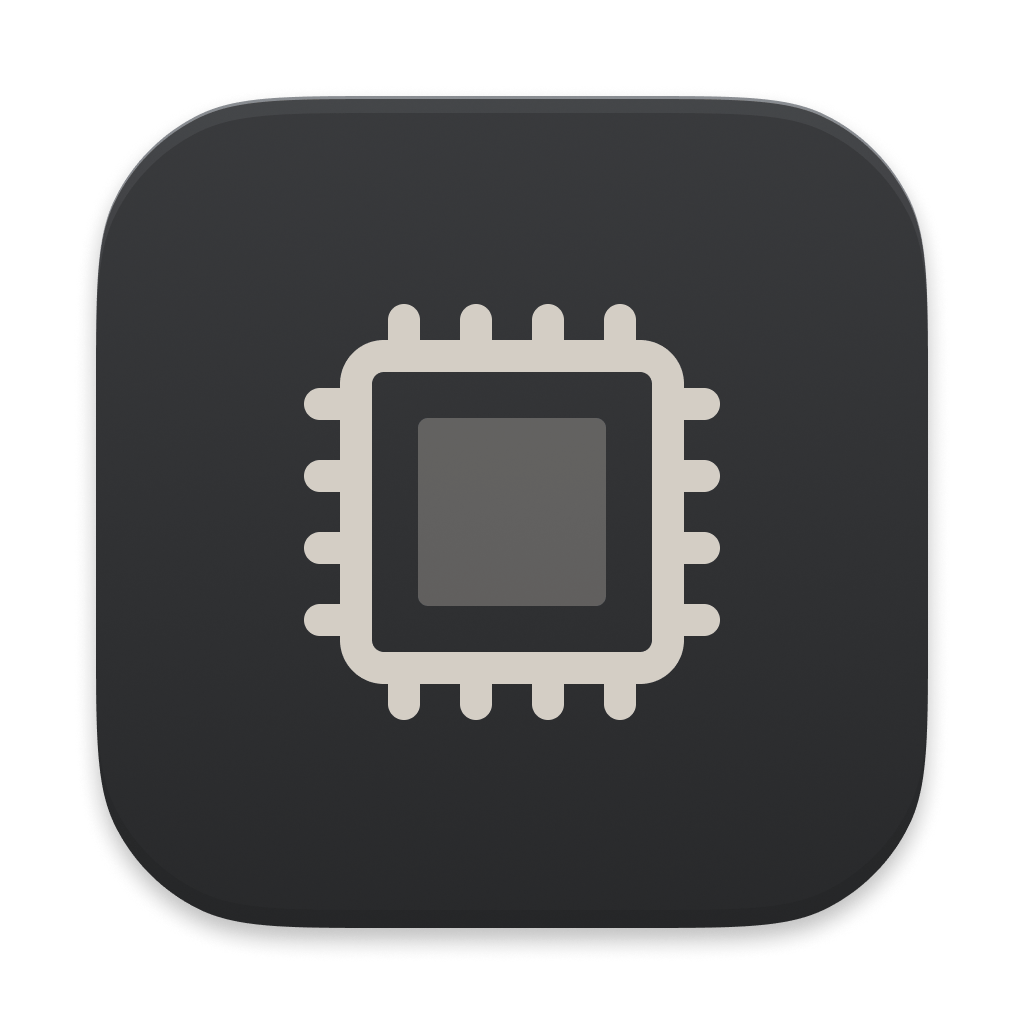
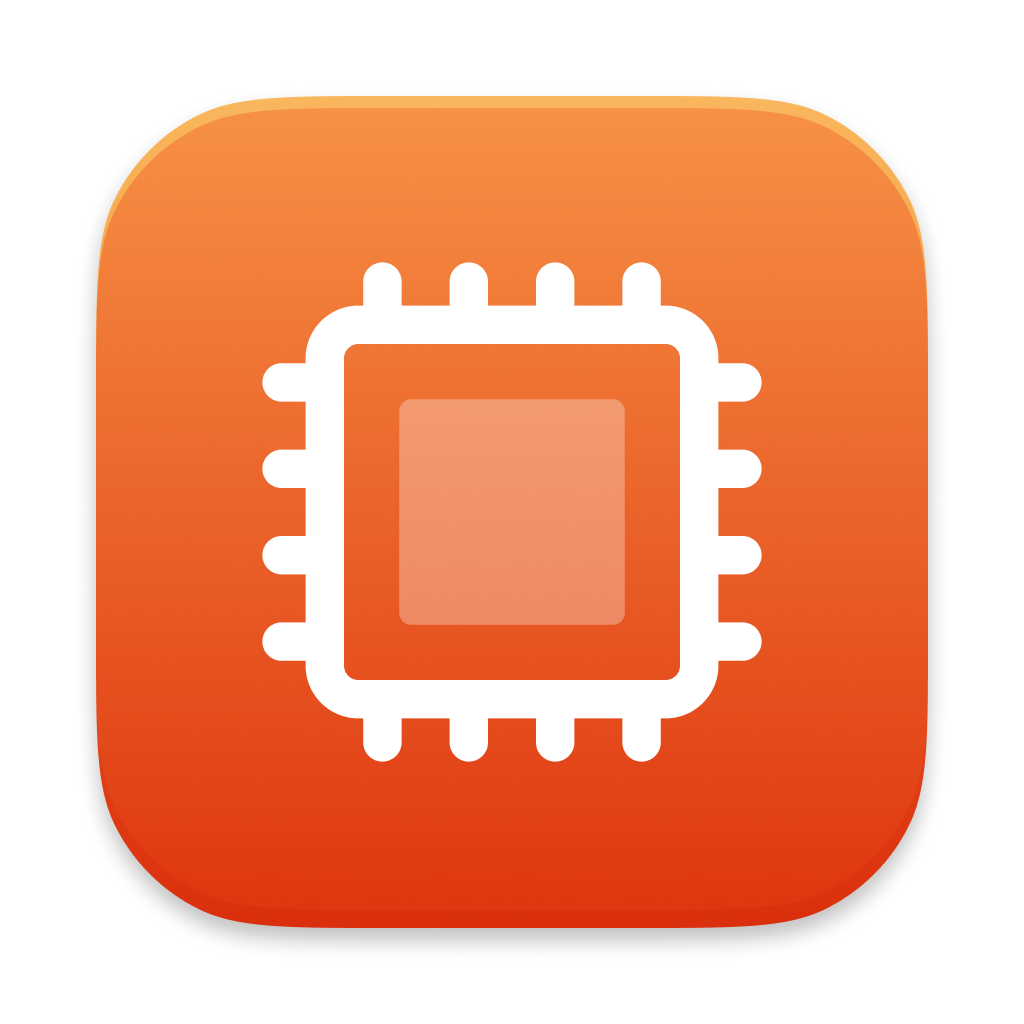
Update README with install instructions and new screenshot

diff --git a/README.md b/README.md
@@ -1,17 +1,22 @@
 # Stat
 
-<img src="stat.png" width="128" alt="Stat icon">
+<img src="stat-1024.png" width="128" alt="Stat icon">
 
 Tiny menu bar app that shows CPU, GPU, temperature, network speed, and weekday at a glance.
 
-<img src="design.webp" alt="Stat menu bar">
+<img src="web/screenshot.webp" alt="Screenshot">
 
 ## Install
+
+1. Open **Terminal** (press ⌘Space, type "Terminal", press Enter)
+2. Copy and paste this command, then press Enter:
 
 ```sh
 /bin/bash -c "$(curl -fsSL https://raw.githubusercontent.com/vladstudio/stat/main/install.sh)"
 ```
 
-## License
+3. The app will install to /Applications and open automatically
 
-MIT
+---
+
+License: MIT